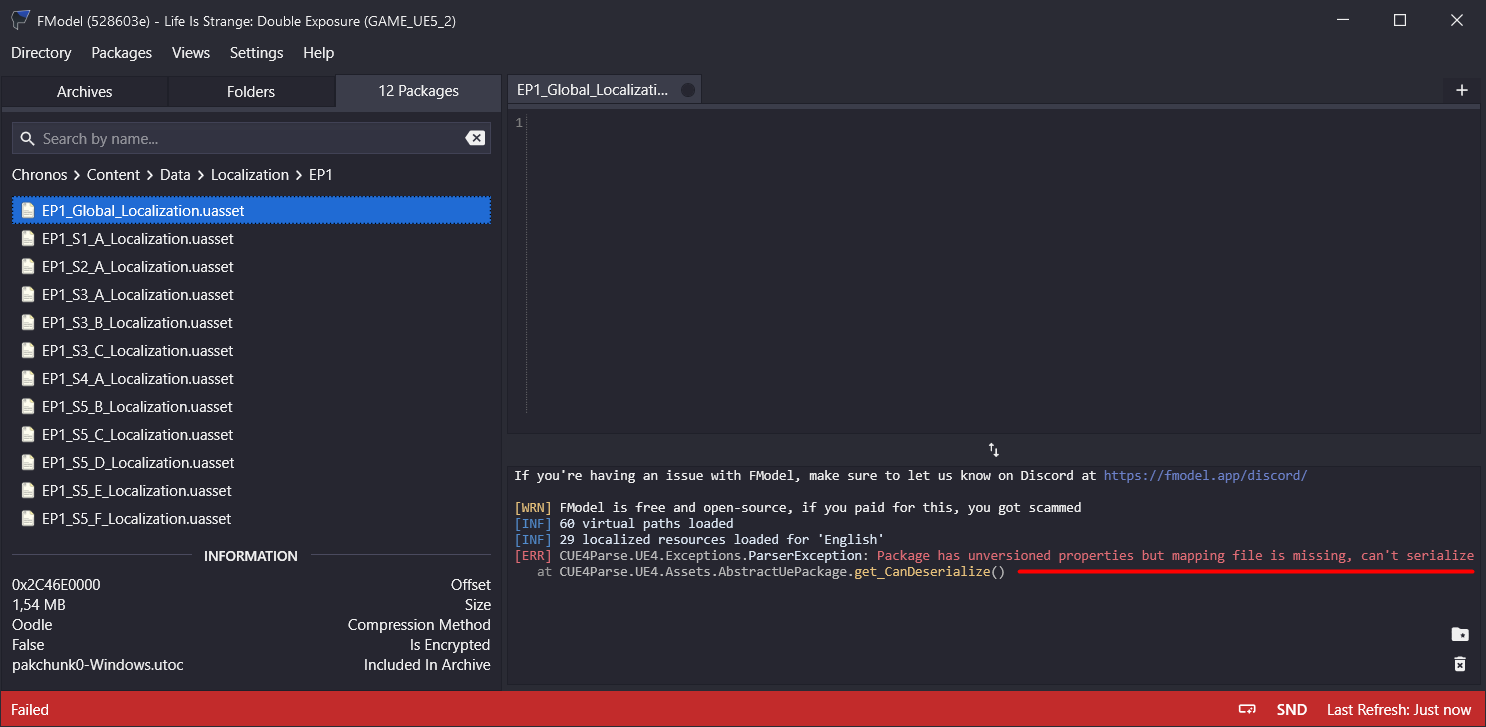
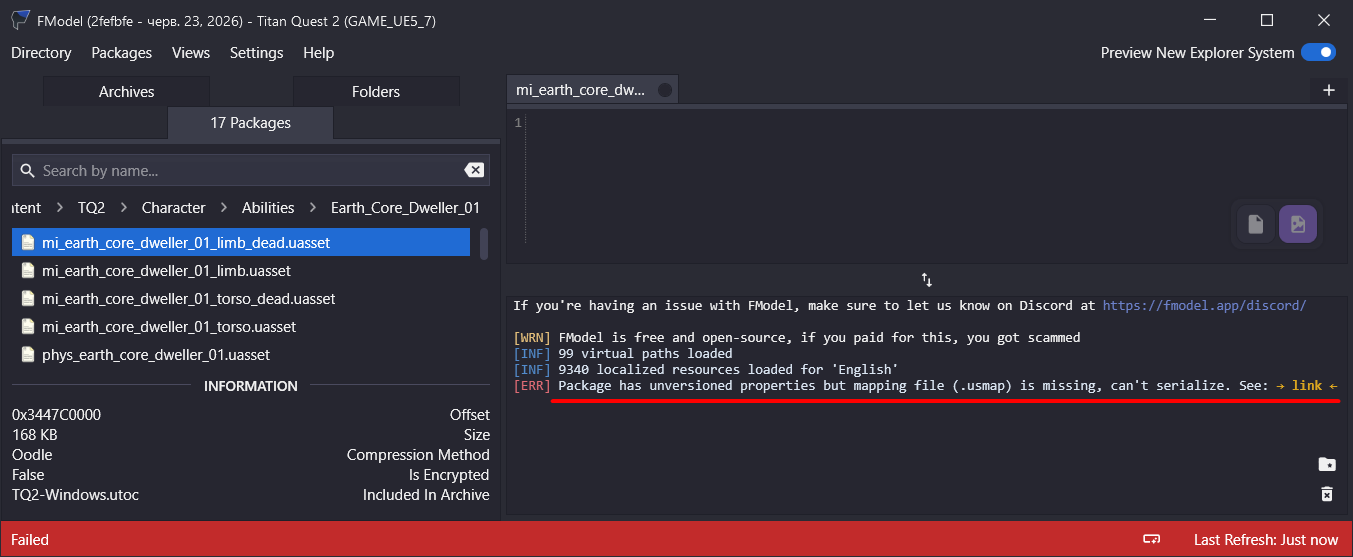
оновлення

diff --git a/guide/index.html b/guide/index.html
@@ -1006,13 +1006,13 @@ details > *:not(summary) {
 		<main>
 			<h1 id="start">Створення українізатора 2.0</h1>
 				<p style="text-indent: 1em;">Цей посібник створений як розширення <b><a target="_blank" href="https://ukrainizer.netlify.app">посібника piggsy</a></b>. Він не повторює інформацію, а розширює її прикладами й новими інструментами. Рекомендується ознайомитися з <b>обома</b> посібниками. Усе, що описано в цьому посібнику, засноване на власному досвіді автора.
-				<br><br>Останні зміни: <b>24.06.2026</b>
+				<br><br>Останні зміни: <b>25.06.2026</b>
 				<br>Telegram: <b><a target="_blank" href="https://t.me/Halytskyi_Rozbyshaka">Канал</a></b>
 				<br>Discord: <b><a target="_blank" href="https://discord.gg/6SuKFpRaq9">Сервер</a></b></p>
 				
 			<h2 id="unity">Unity</h2>
 			
-			<p style="text-indent: 1em;">Я <b>однозначно рекомендую</b> переходити з <b>UABEA</b> на <b><a href="https://github.com/nesrak1/UABEANext">UABEANext</a></b>. Перший фактично перебуває у замороженому стані: розробка припинена, нові версії <b>Unity</b> не підтримуються, а частина критичних багів так і не була виправлена. Натомість <b><a href="https://github.com/nesrak1/UABEANext">UABEANext</a></b> активно розвивається, отримує підтримку нових версій рушія та пропонує значно ширший і зручніший інструментарій для роботи з асетами.</p>
+			<p style="text-indent: 1em;">Я <b>однозначно рекомендую</b> переходити з <b>UABEA</b> на <b><a href="https://github.com/nesrak1/UABEANext">UABEANext</a></b>. Перший фактично перебуває у замороженому стані: розробка припинена, нові версії <b>Unity</b> не підтримуються, а частина критичних багів так і не була виправлена. Натомість <b><a href="https://github.com/nesrak1/UABEANext">UABEANext</a></b> активно* розвивається, отримує підтримку нових версій рушія та пропонує значно ширший і зручніший інструментарій для роботи з асетами.</p>
 			<div class="pros-cons">
 				<div class="pros">
 					<h4>UABEANext</h4>
@@ -1118,7 +1118,7 @@ details > *:not(summary) {
 					<img src="unity/alt.png" width="350" alt="">
 				<p>Її слід використовувати в поєднанні з <b><a target="_blank" href="https://hikarosato.github.io/array/">Unity Localization Tool</a></b>:</p>
 				<video width="1100" controls style="background: #0a0a0a; filter: none; opacity: 1;"><source src="unity/alt.mp4" type="video/mp4">Ваш браузер не підтримує відтворення відео.</video>
-				<p>Додатково може знадобитися додавання нового рядка з назвою нашої мови у багатомовний <b>MonoBehaviour</b> і/або редагування <b>.dll</b> в залежності від гри.</p>
+				<p>Додатково може знадобитися додавання нового рядка з <b>ID</b> з назвою нашої мови у багатомовний <b>MonoBehaviour</b> і/або редагування <b>.dll</b> в залежності від гри.</p>
 				
 			<h2 id="ue4-5">Unreal Engine 4 & 5</h2>
 			
@@ -1133,23 +1133,25 @@ details > *:not(summary) {
 					
 				<h3 id="ue-text">Текст</h3>
 				
-					<p style="text-indent: 1em;">Для перекладу та роботи з <b>locres, uasset</b> і <b>umap</b> файлами використовуйте авторський інструмент <b><a href="#tools">UELT</a></b>.</p>
-					<p style="text-indent: 1em;">Також текст з певних структур <b>uasset</b> та <b>umap</b> файлів, можна перенести в <b>locres</b> для зручності і збереження сумісності перекладу з оновленнями гри, що було й зроблено з <b><a target="_blank" href="https://steamcommunity.com/sharedfiles/filedetails/?id=3743109444">перекладом Fatekeeper від Sent_Dez</a></b>. Детальніше розписано в документації <b>UELT</b>.</p>
+					<p style="text-indent: 1em;">Для перекладу та роботи з <b>locres, uasset</b> і <b>umap</b> файлами використовуйте авторський інструмент <b><a href="#tools">UELT</a></b> або мій старий форк <b><a target="_blank" href="#tools">UE Localization Tool 2.8.6</a></b> (не рекомендую, з перелічених у спойлерах причин).</p>
+					<p style="text-indent: 1em;">Також текст з певних структур <b>uasset</b> та <b>umap</b> файлів, можна перенести в <b>locres</b> для зручності і збереження сумісності перекладу з оновленнями гри, що було й зроблено з перекладом <b><a target="_blank" href="https://steamcommunity.com/sharedfiles/filedetails/?id=3743109444">Fatekeeper від Sent_Dez</a></b>. Детальніше розписано в документації <b>UELT</b>.</p>
 					<img src="ue/uelt.png" width="1100" alt="">
 					
 				<h3>Як дізнатись, чи потрібен usmap/jmap/jmap.gz для uasset/umap файлів:</h3>
- 					<p style="text-indent: 1em;">Спробуйте переглянути <b>uasset/umap</b> у <b><a target="_blank" href="https://github.com/4sval/FModel">FModel</a></b>. Якщо з’явиться повідомлення <b>...mapping file is missing</b>, вітаю, переходьте до наступного пункту.</p>
-					<p style="text-indent: 1em;"><b style="color: red;">Що це таке:</b> Цей файл містить усі структури гри для правильного відкриття та редагування <b>uasset/umap</b>. Практично обов’язковий у <b>Unreal Engine 5</b>, іноді потрібен у <b>4-х</b> версіях, тому й важливо перевіряти шляхом передогляду випадкового <b>uasset</b> у <b>FModel'і</b>.</p>
+ 					<p style="text-indent: 1em;">Спробуйте переглянути <b>uasset/umap</b> у <b><a target="_blank" href="https://github.com/4sval/FModel">FModel</a></b>. Якщо з’явиться повідомлення <b>...but mapping file is missing...</b>, вітаю, переходьте до наступного пункту.</p>
+					<p style="text-indent: 1em;"><b style="color: red;">Що це таке:</b> Цей файл містить усі структури гри для правильного відкриття та редагування <b>uasset/umap</b>, <b>usmap</b> є старою бінарною версією, коли <b>jmap</b> є новою альтернативою у вигляді <b>JSON</b> файлу, <b>jmap.gz</b> є його стисненим варіантом в архіві. Практично обов’язковий у <b>Unreal Engine 5</b>, іноді потрібен у <b>4-х</b> версіях, тому й важливо перевіряти шляхом передогляду випадкового <b>uasset</b> у <b>FModel'і</b>.</p>
  						<img src="ue/check-usmap.png" width="1200" alt="">
 						
 				<h4>Варіанти отримання usmap/jmap/jmap.gz:</h4>
 				
 				<ul>
 					<li>
-					<p><b><a target="_blank" href="https://github.com/Encryqed/Dumper-7">Dumper-7</a></b> та <b>DLL Injector</b>, знайдіть будь-який на просторах інтернету.</p>
+					<p><b><a target="_blank" href="https://github.com/Encryqed/Dumper-7">Dumper-7</a></b> та <b>DLL Injector</b>, знайдіть будь-який на просторах інтернету, або скористайтеся <b><a target="_blank" href="tools/reinjector.zip">reinjector</a></b>, звісно ваш антивірус буде на нього реагувати — він інтегрує сторонню <b>dll</b> під час роботи гри, що буде вважатись загрозою.</p>
 						<video width="1100" controls style="background: #0a0a0a; filter: none; opacity: 1;"><source src="ue/usmap-extract.mp4" type="video/mp4">Ваш браузер не підтримує відтворення відео.</video>
-					<p style="text-indent: 1em;">Як тільки побачите текст <b>Generating SDK tools (*.*ms)</b> можете закривати Командний рядок, при цьому гра також закриється. Згенерований <b>usmap</b> знайдете на системному диску у теці <b>Dumper-7</b>.</p></li>
+					<p style="text-indent: 1em;">Як тільки побачите текст <b>Generating SDK tools (*.*ms)</b> можете закривати Командний рядок, при цьому гра також закриється. Згенерований <b>usmap</b> знайдете на системному диску у теці <b>Dumper-7/Mappings</b>.</p></li>
 					<li><p><b><a target="_blank" href="https://github.com/trumank/jmap">jmap</a></b> — консольний варіант генерування <b>usmap/jmap/jmap.gz</b>.</p></li>
+					<li><p><b><a target="_blank" href="https://fmodel.app/discord">FModel Discord</a></b> — знайти готовий <b>usmap/jmap/jmap.gz</b>, перейшовши в розділ <b>game-compatibility</b>.</p></li>
+					<li><p><b><a target="_blank" href="https://www.nexusmods.com/">Nexus Mods</a></b> — іноді туди завантажують <b>usmap</b> файли, хоча здебільшого там дурня.</p></li>
 				</ul>
 					
 				<h3 id="ue-unpack">Правильне розпакування uasset/umap разом з uexp і подальший переклад</h3>
@@ -1166,7 +1168,7 @@ details > *:not(summary) {
 					</div>
 						<img src="ue/retoc.png" width="600" alt="">
 				<h4>Правильний переклад uasset/umap:</h4>
-					<p>Раніше ми дістали <b>usmap/jmap/jmap.gz</b> з гри, тепер маємо <b>uasset/umap+uexp</b>. Далі використовуємо <b><a href="#tools">UELT</a></b>, відкриваємо <b>uasset/umap</b> та підтягуємо <b>usmap/jmap/jmap.gz</b>:</p>
+					<p>Раніше ми отримати <b>usmap/jmap/jmap.gz</b>, тепер маємо <b>uasset/umap+uexp</b>. Далі використовуємо <b><a href="#tools">UELT</a></b>, відкриваємо <b>uasset/umap</b> та підтягуємо <b>usmap/jmap/jmap.gz</b>:</p>
 						<img src="ue/uelt_uasset.png" width="400" alt="">
 						
 				<h3 id="ue-plural-gender">Застосування плюралізації та родів</h3>
@@ -1274,14 +1276,15 @@ details > *:not(summary) {
 							<img src="ue/new_font.png" style="max-width: 500px; height: auto;" alt="">
 						</div>
 					<h4>ufont (UE 5.6+)</h4>
-					<p>Починаючи з <b>Unreal Engine 5.6</b> було додано розмір шрифту у заголовок <b>ufont</b> файлів як метадані для швидшого зчитування рушієм. Для видалення розміру і подальшого його правильного обрахування для пакування було написано інструмент <b><a target="_blank" href="tools/uFontTool.exe">uFontTool</a></b>. Підтримується перетягування <b>ufont/ttf</b> файлів та тек з підтеками.</p>
+					<p>Починаючи з <b>Unreal Engine 5.6</b> було додано розмір шрифту у заголовок <b>ufont</b> файлів як метадані для швидшого зчитування рушієм. Для видалення розміру і подальшого його правильного обрахування для пакування було написано інструмент <b><a target="_blank" href="tools/uFontTool.exe">uFontTool</a></b>. Підтримується перетягування <b>ufont/ttf/otf</b> файлів та тек з підтеками.</p>
 					<img src="ue/ufonttool.png" width="500" alt="">
 					
 				<h3 id="ue-pack">Пакування</h3>
 				
 					<h4>pak контейнери</h4>
 					<p>Замість старого <b>unrealpak</b> варто використовувати новий інструмент <b><a target="_blank" href="https://github.com/trumank/repak">repak</a></b>, який дозволяє пакувати різними версіями контейнерів під потрібну версію <b>Unreal Engine</b>, а також є швидшим.</p>
-					<p><b style="color: red;">Важливо:</b> Починаючи з <b>Unreal Engine 5.6</b> з’явилася вимога обов’язкових <b>utoc/ucas</b> контейнерів для <b>pak</b> файлів, інакше гра просто не завантажить запакований переклад у контейнері <b>pak</b>. Так як у нових <b>pak</b> зберігаються лише <b>locres, ufont, ini</b> та інші звичайні формати, <b>uasset</b> та <b>umap</b> із <b>Zen-контейнерів</b> потрібно запаковувати в <b>utoc</b>.<br><b style="color: red;">Увага:</b> У випадках, коли не потрібно запаковувати <b>uasset</b> чи <b>umap</b>, і при цьому <b>utoc/ucas</b> обов’язкові — можна взяти <b>global.utoc</b> і <b>global.ucas</b> з гри і використовувати їх як заглушки, перейменувавши під назву <b>pak</b> файлу.</p>
+					<p><b style="color: red;">Важливо:</b> Починаючи з <b>Unreal Engine 5.6</b> з’явилася вимога обов’язкових <b>utoc/ucas</b> контейнерів для <b>pak</b> файлів, інакше гра просто не завантажить запакований переклад у контейнері <b>pak</b>. Так як у <u>нових</u> <b>pak</b> зберігаються лише <b>locres, ufont, ini</b> та інші звичайні формати — <b>uasset</b> та <b>umap</b> із <b>Zen-контейнерів</b> потрібно запаковувати в <b>utoc</b>.<br><b style="color: red;">Увага:</b> У випадках, коли немає потреби у перекладі <b>uasset</b> чи <b>umap</b>, і при цьому <b>utoc/ucas</b> обов’язкові — можна взяти <b>global.utoc</b> і <b>global.ucas</b> з гри і використовувати їх як заглушки, перейменувавши під назву <b>pak</b> файлу.</p>
+					<img src="ue/ucasutoc.png" width="400" alt="">
 				
 				<h4>Zen-контейнери utoc/ucas</h4>
 					<p>Для цього нам знову потрібен <b><a target="_blank" href="https://github.com/trumank/retoc">retoc</a></b>. Користуйтеся або консольним варіантом, або <b><a target="_blank" href="tools/RetocGUI_NooB.zip">GUI-обгорткою від NooB</a></b>.</p>
@@ -1441,9 +1444,9 @@ details > *:not(summary) {
 					</div>
 				</li>
 				
-				<li><b><a target="_blank" href="tools/uFontTool.exe">uFontTool</a></b> — авторський інструмент для роботи з <b>ufont</b> файлами починаючи з <b>Unreal Engine 5.6</b>.</li>
+				<li><b><a target="_blank" href="tools/uFontTool.exe">uFontTool 1.1</a></b> — авторський інструмент для роботи з <b>ufont</b> файлами починаючи з <b>Unreal Engine 5.6</b>.</li>
 				
-				<li><b><a target="_blank" href="tools/LocMetaTool.exe">LocMetaTool</a></b> — авторський інструмент для роботи з <b>locmeta</b> файлами. Підтримується перетягування <b>locmeta/json</b>, конвертація між <b>0, 1</b> і <b>2</b> версіями.</li>
+				<li><b><a target="_blank" href="tools/LocMetaTool.exe">LocMetaTool 1.1</a></b> — авторський інструмент для роботи з <b>locmeta</b> файлами. Підтримується перетягування <b>locmeta/json</b>, конвертація між <b>0, 1</b> і <b>2</b> версіями.</li>
 				
 				</ul>
 			<h2>Поради</h2>